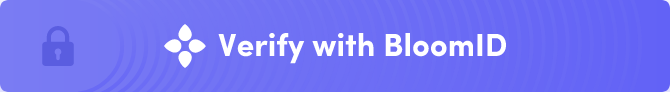
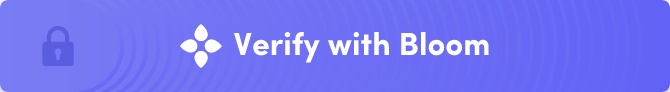
Update verify text (#58)
* Update verify text

* Prep release

Changed region(s): [[0.2388, 0.2609, 0.7761, 0.7391]]

diff --git a/src/elements/buttons/renderMediumRequestButton.ts b/src/elements/buttons/renderMediumRequestButton.ts
@@ -31,7 +31,7 @@ const renderStyle = (id: string, type: MediumButtonType) => {
     }
   `
 
-  if (type === 'sign-up' || type === 'log-in' || type === 'verify') {
+  if (['sign-up', 'log-in', 'verify'].indexOf(type) >= 0) {
     styleText += stripIndents(oneLine)`
       #${id}-text {
         margin-top: 2px;
@@ -88,8 +88,8 @@ const texts: {[k in MediumButtonType]: {d: string; width: string; height: string
   },
   verify: {
     d:
-      'M0 1.102h2.08l1.683 6.185 1.67-6.185h2.093L4.653 10.53h-1.78L0 1.102zm13.11 7.32l1.382.945c-.644.958-1.834 1.3-2.915 1.3-1.834 0-3.34-1.34-3.34-3.352 0-2.012 1.506-3.312 3.34-3.312 1.82 0 3.27 1.355 3.27 3.366 0 .164-.013.424-.027.589h-4.68c.096.739.903 1.067 1.574 1.067.52 0 1.08-.192 1.395-.602zm-2.943-1.655h2.765c-.096-.78-.808-1.095-1.341-1.095-.534 0-1.26.288-1.424 1.095zM18.05 8.3v2.23h-1.902V4.14h1.902v1.546c.329-1.19 1.15-1.683 1.807-1.683.451 0 .793.082 1.095.233l-.343 1.71c-.342-.164-.67-.191-.971-.191-1.095 0-1.588.862-1.588 2.545zm5.775-4.16v6.39h-1.888V4.14h1.888zM21.69 1.772c0-.63.548-1.108 1.191-1.108s1.163.479 1.163 1.108c0 .63-.52 1.123-1.163 1.123s-1.19-.493-1.19-1.123zM29.804.664v1.82h-.698c-.657 0-.971.465-.971 1.218v.438h1.286v1.505h-1.286v4.885h-1.916V5.645h-1.204V4.14h1.204v-.438c0-1.957 1.054-3.038 2.887-3.038h.698zm6.842 3.476l-3.94 9.524h-2.012l1.532-3.79-2.463-5.734h2.025l1.41 3.626L34.62 4.14h2.025zm13.698 0L48.1 10.53h-1.587l-1.26-4.064-1.204 4.064h-1.587L40.15 4.14h2.026l1.136 3.804 1.122-3.804h1.628l1.122 3.804L48.32 4.14h2.025zm2.901 0v6.39h-1.888V4.14h1.888zm-2.134-2.368c0-.63.547-1.108 1.19-1.108.643 0 1.163.479 1.163 1.108 0 .63-.52 1.123-1.163 1.123s-1.19-.493-1.19-1.123zm6.376 2.368h1.341v1.505h-1.34v4.885h-1.89V5.645h-1.162V4.14h1.163V1.69h1.888v2.45zm4.407 3.01v3.38h-1.902V.664h1.902v4.475c.26-.794 1.19-1.136 1.792-1.136 1.683 0 2.56 1.122 2.56 3.052v3.475h-1.903V7.123c0-.835-.602-1.273-1.177-1.273-.602 0-1.272.329-1.272 1.3zm16.16-3.42c0 .615-.314 1.395-1.286 1.765 1.246.314 1.78 1.382 1.78 2.148 0 1.56-1.136 2.887-3.011 2.887h-4.05V1.102h3.776c1.697 0 2.792 1.013 2.792 2.627zm-4.556 1.094h1.574c.52 0 .875-.41.875-.972 0-.588-.3-.985-.89-.985h-1.56v1.957zm1.888 1.656h-1.888v2.285h1.93c.67 0 1.012-.602 1.012-1.163 0-.534-.342-1.122-1.054-1.122zM79.971.664h1.902v9.866H79.97V.664zm6.582 8.115c.793 0 1.45-.575 1.45-1.464 0-.863-.657-1.451-1.45-1.451-.78 0-1.437.588-1.437 1.45 0 .89.657 1.465 1.437 1.465zm0 1.86c-1.807 0-3.312-1.313-3.312-3.324 0-2.012 1.505-3.312 3.312-3.312 1.806 0 3.325 1.3 3.325 3.312 0 2.011-1.52 3.325-3.325 3.325zm7.622-1.86c.793 0 1.45-.575 1.45-1.464 0-.863-.657-1.451-1.45-1.451-.78 0-1.437.588-1.437 1.45 0 .89.657 1.465 1.437 1.465zm0 1.86c-1.807 0-3.312-1.313-3.312-3.324 0-2.012 1.505-3.312 3.312-3.312 1.806 0 3.325 1.3 3.325 3.312 0 2.011-1.519 3.325-3.325 3.325zm11.754-4.789c-.602 0-1.094.37-1.094 1.3v3.38h-1.902V7.082c-.014-.807-.507-1.232-1.054-1.232-.575 0-1.108.329-1.108 1.3v3.38h-1.903V4.14h1.903v.93c.3-.67.985-1.053 1.669-1.053 1.013 0 1.697.383 2.053 1.122.615-1 1.464-1.136 1.915-1.136 1.52 0 2.464.972 2.464 2.901v3.626h-1.889V7.123c0-.835-.492-1.273-1.054-1.273zm4.858-4.748h1.998v9.428h-1.998V1.102zM117 2.922V8.71h1.697c1.505 0 2.258-1.327 2.258-2.873 0-1.56-.753-2.915-2.258-2.915H117zm1.697 7.608h-3.695V1.102h3.695c2.71 0 4.256 2.053 4.256 4.735 0 2.668-1.547 4.693-4.256 4.693z',
-    width: '123',
+      'M.744.974h2.063l1.67 6.185L6.133.974H8.21l-2.85 9.428H3.594L.744.974zm13.005 7.32l1.37.945c-.637.958-1.818 1.3-2.89 1.3-1.82 0-3.313-1.34-3.313-3.352 0-2.012 1.493-3.312 3.312-3.312 1.806 0 3.245 1.355 3.245 3.366 0 .164-.014.424-.028.589h-4.642c.095.739.896 1.067 1.56 1.067.517 0 1.073-.192 1.386-.602zM10.83 6.64h2.742c-.095-.78-.8-1.095-1.33-1.095s-1.25.288-1.412 1.095zm7.819 1.533v2.23h-1.887v-6.39h1.887v1.546c.326-1.19 1.14-1.683 1.792-1.683.448 0 .787.082 1.086.233l-.34 1.71c-.339-.164-.665-.191-.963-.191-1.086 0-1.575.862-1.575 2.545zm5.728-4.16v6.39h-1.873v-6.39h1.873zM22.26 1.644c0-.63.543-1.108 1.18-1.108.639 0 1.155.479 1.155 1.108 0 .63-.516 1.123-1.154 1.123-.638 0-1.181-.493-1.181-1.123zM30.31.536v1.82h-.693c-.651 0-.963.465-.963 1.218v.438h1.276v1.505h-1.276v4.885h-1.9V5.517h-1.196V4.012h1.195v-.438c0-1.957 1.045-3.038 2.864-3.038h.693zm6.787 3.476l-3.91 9.524h-1.995l1.52-3.79-2.443-5.734h2.009l1.398 3.626 1.412-3.626h2.009zm13.588 0l-2.226 6.39h-1.575l-1.249-4.064-1.194 4.064h-1.575l-2.294-6.39h2.01l1.126 3.804 1.113-3.804h1.615l1.113 3.804 1.127-3.804h2.01zm2.878 0v6.39H51.69v-6.39h1.873zm-2.118-2.368c0-.63.543-1.108 1.181-1.108s1.154.479 1.154 1.108c0 .63-.516 1.123-1.154 1.123-.638 0-1.18-.493-1.18-1.123zm6.326 2.368h1.33v1.505h-1.33v4.885h-1.873V5.517h-1.154V4.012h1.154v-2.45h1.873v2.45zm4.371 3.01v3.38h-1.887V.536h1.887v4.475c.258-.794 1.181-1.136 1.778-1.136 1.67 0 2.539 1.122 2.539 3.052v3.475h-1.887V6.995c0-.835-.597-1.273-1.167-1.273-.598 0-1.263.329-1.263 1.3zm16.032-3.42c0 .615-.312 1.395-1.276 1.765 1.235.314 1.765 1.382 1.765 2.148 0 1.56-1.127 2.887-2.987 2.887h-4.018V.974h3.747c1.683 0 2.769 1.013 2.769 2.627zm-4.52 1.094h1.56c.516 0 .87-.41.87-.972 0-.588-.3-.985-.883-.985h-1.547v1.957zm1.873 1.656h-1.873v2.285h1.914c.665 0 1.004-.602 1.004-1.163 0-.534-.34-1.122-1.045-1.122zM80.074.536h1.887v9.866h-1.887V.536zm6.53 8.115c.787 0 1.439-.575 1.439-1.464 0-.863-.652-1.451-1.44-1.451-.773 0-1.425.588-1.425 1.45 0 .89.652 1.465 1.426 1.465zm0 1.86c-1.792 0-3.285-1.313-3.285-3.324 0-2.012 1.493-3.312 3.285-3.312s3.298 1.3 3.298 3.312c0 2.011-1.506 3.325-3.298 3.325zm7.56-1.86c.788 0 1.44-.575 1.44-1.464 0-.863-.652-1.451-1.44-1.451-.773 0-1.425.588-1.425 1.45 0 .89.652 1.465 1.426 1.465zm0 1.86c-1.791 0-3.284-1.313-3.284-3.324 0-2.012 1.493-3.312 3.285-3.312s3.298 1.3 3.298 3.312c0 2.011-1.506 3.325-3.298 3.325zm11.661-4.789c-.597 0-1.086.37-1.086 1.3v3.38h-1.886V6.954c-.014-.807-.503-1.232-1.046-1.232-.57 0-1.1.329-1.1 1.3v3.38h-1.886v-6.39h1.887v.93c.298-.67.977-1.053 1.656-1.053 1.004 0 1.683.383 2.036 1.122.611-1 1.453-1.136 1.9-1.136 1.507 0 2.444.972 2.444 2.901v3.626h-1.873V6.995c0-.835-.489-1.273-1.046-1.273z',
+    width: '109',
     height: '14',
   },
 }

diff --git a/src/elements/buttons/renderLargeRequestButton.ts b/src/elements/buttons/renderLargeRequestButton.ts
@@ -262,7 +262,7 @@ const renderStyle = (id: string, type: LargeButtonType) => {
     }
   `
 
-  if (type === 'sign-up' || type === 'log-in' || type === 'verify') {
+  if (['sign-up', 'log-in', 'verify'].indexOf(type) >= 0) {
     styleText += stripIndents(oneLine)`
       #${id}-text {
         margin-top: 2px;
@@ -338,8 +338,8 @@ const texts: {[k in LargeButtonType]: {d: string; width: string; height: string}
   },
   verify: {
     d:
-      'M.256.976h2.432l1.968 7.232L6.608.976h2.448L5.696 12h-2.08L.256.976zm15.328 8.56L17.2 10.64c-.752 1.12-2.144 1.52-3.408 1.52-2.144 0-3.904-1.568-3.904-3.92s1.76-3.872 3.904-3.872c2.128 0 3.824 1.584 3.824 3.936 0 .192-.016.496-.032.688h-5.472c.112.864 1.056 1.248 1.84 1.248.608 0 1.264-.224 1.632-.704zM12.144 7.6h3.232c-.112-.912-.944-1.28-1.568-1.28-.624 0-1.472.336-1.664 1.28zm9.216 1.792V12h-2.224V4.528h2.224v1.808c.384-1.392 1.344-1.968 2.112-1.968.528 0 .928.096 1.28.272l-.4 2c-.4-.192-.784-.224-1.136-.224-1.28 0-1.856 1.008-1.856 2.976zm6.752-4.864V12h-2.208V4.528h2.208zM25.616 1.76c0-.736.64-1.296 1.392-1.296.752 0 1.36.56 1.36 1.296s-.608 1.312-1.36 1.312c-.752 0-1.392-.576-1.392-1.312zM35.104.464v2.128h-.816c-.768 0-1.136.544-1.136 1.424v.512h1.504v1.76h-1.504V12h-2.24V6.288h-1.408v-1.76h1.408v-.512c0-2.288 1.232-3.552 3.376-3.552h.816zm8 4.064l-4.608 11.136h-2.352l1.792-4.432-2.88-6.704h2.368l1.648 4.24 1.664-4.24h2.368zm16.016 0L56.496 12H54.64l-1.472-4.752L51.76 12h-1.856L47.2 4.528h2.368l1.328 4.448 1.312-4.448h1.904l1.312 4.448 1.328-4.448h2.368zm3.392 0V12h-2.208V4.528h2.208zM60.016 1.76c0-.736.64-1.296 1.392-1.296.752 0 1.36.56 1.36 1.296s-.608 1.312-1.36 1.312c-.752 0-1.392-.576-1.392-1.312zm7.456 2.768h1.568v1.76h-1.568V12h-2.208V6.288h-1.36v-1.76h1.36V1.664h2.208v2.864zm5.152 3.52V12H70.4V.464h2.224v5.232c.304-.928 1.392-1.328 2.096-1.328 1.968 0 2.992 1.312 2.992 3.568V12h-2.224V8.016c0-.976-.704-1.488-1.376-1.488-.704 0-1.488.384-1.488 1.52zm18.896-4c0 .72-.368 1.632-1.504 2.064 1.456.368 2.08 1.616 2.08 2.512 0 1.824-1.328 3.376-3.52 3.376H83.84V.976h4.416c1.984 0 3.264 1.184 3.264 3.072zm-5.328 1.28h1.84c.608 0 1.024-.48 1.024-1.136 0-.688-.352-1.152-1.04-1.152h-1.824v2.288zM88.4 7.264h-2.208v2.672h2.256c.784 0 1.184-.704 1.184-1.36 0-.624-.4-1.312-1.232-1.312zm5.36-6.8h2.224V12H93.76V.464zm7.696 9.488c.928 0 1.696-.672 1.696-1.712 0-1.008-.768-1.696-1.696-1.696-.912 0-1.68.688-1.68 1.696 0 1.04.768 1.712 1.68 1.712zm0 2.176c-2.112 0-3.872-1.536-3.872-3.888s1.76-3.872 3.872-3.872 3.888 1.52 3.888 3.872-1.776 3.888-3.888 3.888zm8.912-2.176c.928 0 1.696-.672 1.696-1.712 0-1.008-.768-1.696-1.696-1.696-.912 0-1.68.688-1.68 1.696 0 1.04.768 1.712 1.68 1.712zm0 2.176c-2.112 0-3.872-1.536-3.872-3.888s1.76-3.872 3.872-3.872 3.888 1.52 3.888 3.872-1.776 3.888-3.888 3.888zm13.744-5.6c-.704 0-1.28.432-1.28 1.52V12h-2.224V7.968c-.016-.944-.592-1.44-1.232-1.44-.672 0-1.296.384-1.296 1.52V12h-2.224V4.528h2.224v1.088c.352-.784 1.152-1.232 1.952-1.232 1.184 0 1.984.448 2.4 1.312.72-1.168 1.712-1.328 2.24-1.328 1.776 0 2.88 1.136 2.88 3.392V12h-2.208V8.016c0-.976-.576-1.488-1.232-1.488zm5.68-5.552h2.336V12h-2.336V.976zm7.264 2.128v6.768h1.984c1.76 0 2.64-1.552 2.64-3.36 0-1.824-.88-3.408-2.64-3.408h-1.984zM139.04 12h-4.32V.976h4.32c3.168 0 4.976 2.4 4.976 5.536 0 3.12-1.808 5.488-4.976 5.488z',
-    width: '144',
+      'M0 .512h2.432L4.4 7.744 6.352.512H8.8L5.44 11.536H3.36L0 .512zm15.328 8.56l1.616 1.104c-.752 1.12-2.144 1.52-3.408 1.52-2.144 0-3.904-1.568-3.904-3.92s1.76-3.872 3.904-3.872c2.128 0 3.824 1.584 3.824 3.936 0 .192-.016.496-.032.688h-5.472c.112.864 1.056 1.248 1.84 1.248.608 0 1.264-.224 1.632-.704zm-3.44-1.936h3.232c-.112-.912-.944-1.28-1.568-1.28-.624 0-1.472.336-1.664 1.28zm9.216 1.792v2.608H18.88V4.064h2.224v1.808c.384-1.392 1.344-1.968 2.112-1.968.528 0 .928.096 1.28.272l-.4 2c-.4-.192-.784-.224-1.136-.224-1.28 0-1.856 1.008-1.856 2.976zm6.752-4.864v7.472h-2.208V4.064h2.208zM25.36 1.296C25.36.56 26 0 26.752 0c.752 0 1.36.56 1.36 1.296s-.608 1.312-1.36 1.312c-.752 0-1.392-.576-1.392-1.312zM34.848 0v2.128h-.816c-.768 0-1.136.544-1.136 1.424v.512H34.4v1.76h-1.504v5.712h-2.24V5.824h-1.408v-1.76h1.408v-.512C30.656 1.264 31.888 0 34.032 0h.816zm8 4.064L38.24 15.2h-2.352l1.792-4.432-2.88-6.704h2.368l1.648 4.24 1.664-4.24h2.368zm16.016 0l-2.624 7.472h-1.856l-1.472-4.752-1.408 4.752h-1.856l-2.704-7.472h2.368l1.328 4.448 1.312-4.448h1.904l1.312 4.448 1.328-4.448h2.368zm3.392 0v7.472h-2.208V4.064h2.208zM59.76 1.296C59.76.56 60.4 0 61.152 0c.752 0 1.36.56 1.36 1.296s-.608 1.312-1.36 1.312c-.752 0-1.392-.576-1.392-1.312zm7.456 2.768h1.568v1.76h-1.568v5.712h-2.208V5.824h-1.36v-1.76h1.36V1.2h2.208v2.864zm5.152 3.52v3.952h-2.224V0h2.224v5.232c.304-.928 1.392-1.328 2.096-1.328 1.968 0 2.992 1.312 2.992 3.568v4.064h-2.224V7.552c0-.976-.704-1.488-1.376-1.488-.704 0-1.488.384-1.488 1.52zm18.896-4c0 .72-.368 1.632-1.504 2.064 1.456.368 2.08 1.616 2.08 2.512 0 1.824-1.328 3.376-3.52 3.376h-4.736V.512H88c1.984 0 3.264 1.184 3.264 3.072zm-5.328 1.28h1.84c.608 0 1.024-.48 1.024-1.136 0-.688-.352-1.152-1.04-1.152h-1.824v2.288zM88.144 6.8h-2.208v2.672h2.256c.784 0 1.184-.704 1.184-1.36 0-.624-.4-1.312-1.232-1.312zm5.36-6.8h2.224v11.536h-2.224V0zm7.696 9.488c.928 0 1.696-.672 1.696-1.712 0-1.008-.768-1.696-1.696-1.696-.912 0-1.68.688-1.68 1.696 0 1.04.768 1.712 1.68 1.712zm0 2.176c-2.112 0-3.872-1.536-3.872-3.888s1.76-3.872 3.872-3.872 3.888 1.52 3.888 3.872-1.776 3.888-3.888 3.888zm8.912-2.176c.928 0 1.696-.672 1.696-1.712 0-1.008-.768-1.696-1.696-1.696-.912 0-1.68.688-1.68 1.696 0 1.04.768 1.712 1.68 1.712zm0 2.176c-2.112 0-3.872-1.536-3.872-3.888s1.76-3.872 3.872-3.872S114 5.424 114 7.776s-1.776 3.888-3.888 3.888zm13.744-5.6c-.704 0-1.28.432-1.28 1.52v3.952h-2.224V7.504c-.016-.944-.592-1.44-1.232-1.44-.672 0-1.296.384-1.296 1.52v3.952H115.6V4.064h2.224v1.088c.352-.784 1.152-1.232 1.952-1.232 1.184 0 1.984.448 2.4 1.312.72-1.168 1.712-1.328 2.24-1.328 1.776 0 2.88 1.136 2.88 3.392v4.24h-2.208V7.552c0-.976-.576-1.488-1.232-1.488z',
+    width: '128',
     height: '16',
   },
 }

diff --git a/CHANGELOG.md b/CHANGELOG.md
@@ -1,3 +1,9 @@
+## 7.2.0
+
+**Improvements**
+
+- Update the `verify` button's text to "Verify with Bloom" instead of "Verify with BloomID"
+
 ## 7.1.0
 
 **New Features**:
